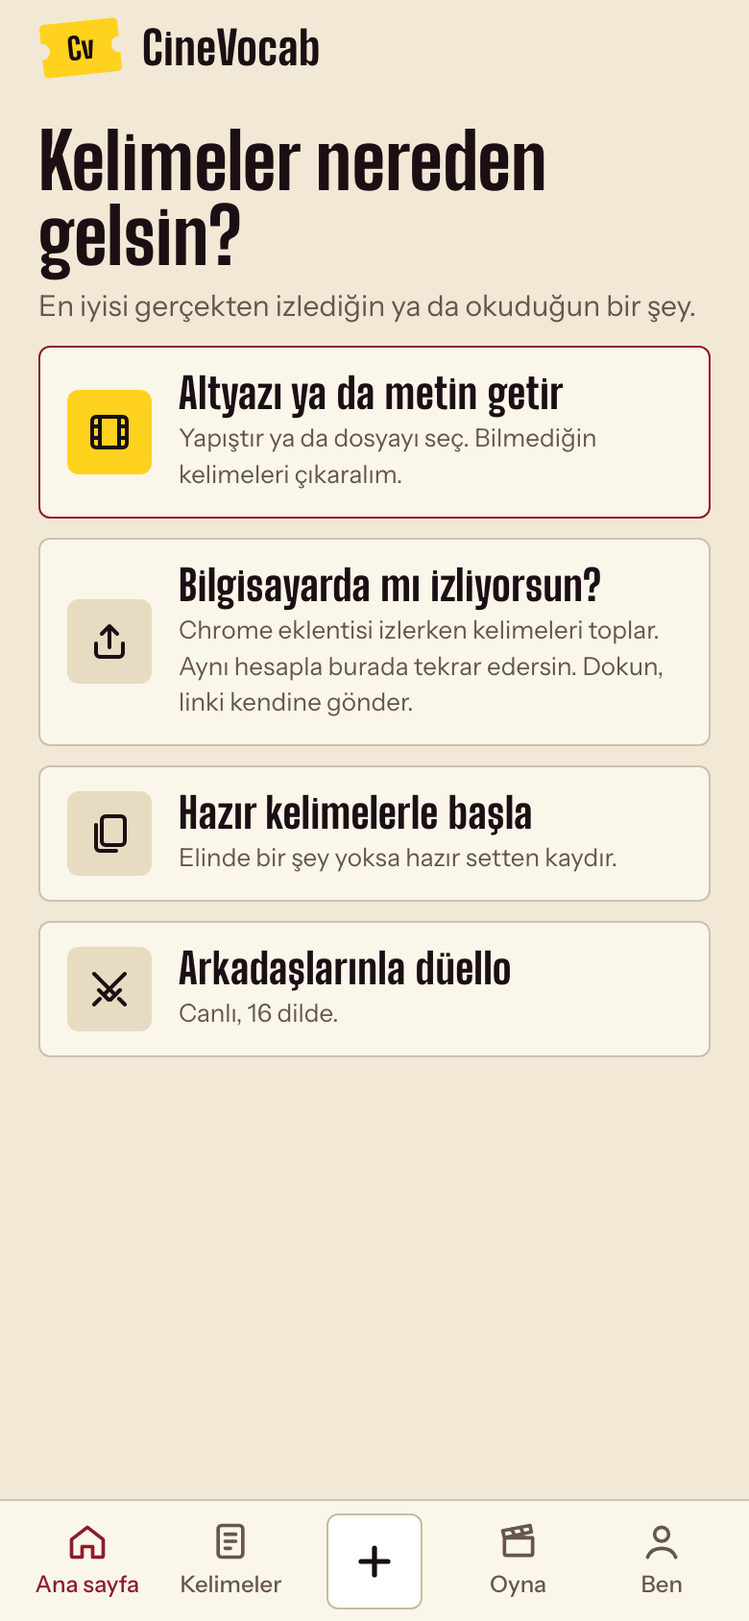
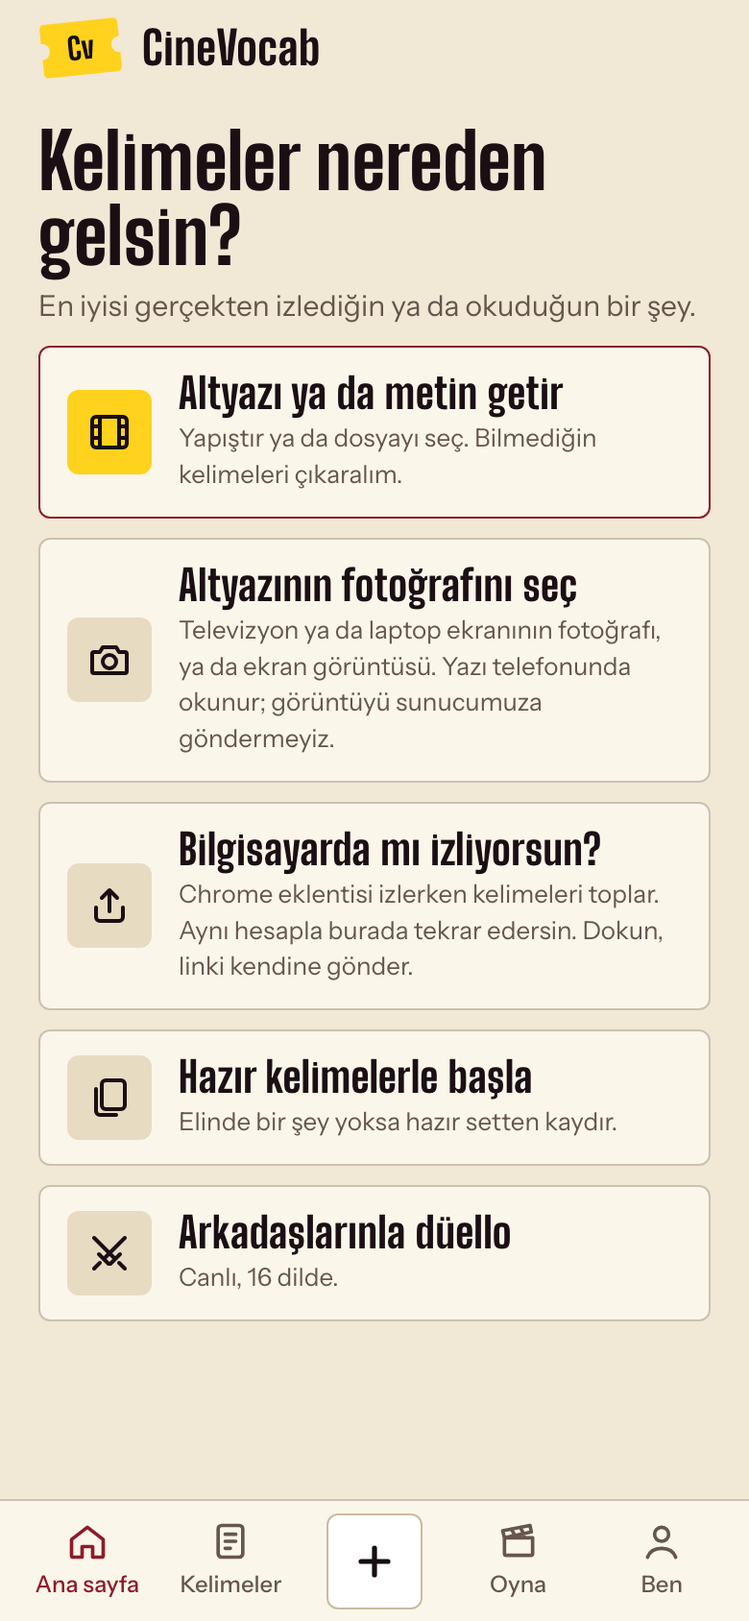
Görselden altyazı: fotoğraf ya da ekran görüntüsündeki yazı telefonda okunur (seç ya da paylaş), veri güvenliği notları

diff --git a/www/app.js b/www/app.js
@@ -51,7 +51,7 @@
       wk0: "One short session fills today's frame.", wkOn: "{0} days in a row. Today's frame is filled.", wkRisk: "{0} days in a row so far. Today's frame is still empty.",
       hFirstS: "Paste a text you want to understand, or pick a starter pack.", hDoneT: "Today's programme is done", hDoneS: "A new puzzle arrives tomorrow. Until then, challenge a friend.",
       flowH: "Word flow", flowS: "Swipe through words. Zero setup.", flowHint: "Swipe up if you knew it, down to see it again.", flowXp: "+{0} XP", flowRun: "{0} in a row", flowEmpty: "Add a few words first, or try the trial pack.", flowBye: "{0} XP earned. Nice flow!", voiceLbl: "Voice", noVoice: "Your phone has no voice for this language.",
-      extH: "Watching on a computer?", extS: "The Chrome extension collects words while you watch. Same account, and you review them here.", extMsg: "CineVocab for Chrome: collect words from subtitles while you watch.", shareReady: "Shared text is in. Tap the button to pull out the words.", shareLink: "That app only shares a link, not the subtitles. Paste the subtitles here or pick the file.", shareNeedAcc: "Your shared text is ready. Create a free account to keep the words.", addH: "Where should your words come from?", addSub: "Best of all: something you are actually watching or reading.",
+      photoH: "Pick a photo of the subtitles", photoS: "A photo of your TV or laptop screen, or a screenshot. The text is read on your phone; we never send the image to our server.", ocrBusy: "Reading the image…", ocrReady: "This is what I could read from the image. Fix anything that came out wrong, then pull out the words.", ocrEmpty: "I could not find readable text in that image. Make sure the subtitles are sharp and large.", ocrLang: "Reading from images works for Latin-script languages for now.", ocrOnly: "This works in the phone app.", extH: "Watching on a computer?", extS: "The Chrome extension collects words while you watch. Same account, and you review them here.", extMsg: "CineVocab for Chrome: collect words from subtitles while you watch.", shareReady: "Shared text is in. Tap the button to pull out the words.", shareLink: "That app only shares a link, not the subtitles. Paste the subtitles here or pick the file.", shareNeedAcc: "Your shared text is ready. Create a free account to keep the words.", addH: "Where should your words come from?", addSub: "Best of all: something you are actually watching or reading.",
       howH: "How do you want to start?", howSub: "Pick one. You can use the others any time.", howQuick: "Start with ready words", howQuickS: "Nothing at hand? Swipe through a starter set.", howSnap: "Snap a subtitle", howSnapS: "Coming soon: point your camera at the TV.", howPaste: "Bring subtitles or a text", howPasteS: "Paste it or pick the file. We pull out the words you do not know.", howDuel: "Duel your friends", howDuelS: "Live, in 16 languages.", howSkip: "Skip",
       cardsH: "Flashcards", cNo: "Show again", cYes: "Knew it", srcOf: "From: {0}", fcTip: "Tap to see the meaning", fcTip2: "Swipe right if you knew it, left if not.", cardsRes: "{0} of {1} known",
       rk0: "Viewer", rk1: "Extra", rk2: "Stunt double", rk3: "Supporting role", rk4: "Lead role", rk5: "Star", rk6: "Director", rk7: "Legend", rankUp: "New role: {0}",
@@ -133,7 +133,7 @@
       wk0: "Kısa bir seans bugünün karesini doldurur.", wkOn: "{0} gün üst üste. Bugünün karesi doldu.", wkRisk: "Şimdiye kadar {0} gün üst üste. Bugünün karesi henüz boş.",
       hFirstS: "Anlamak istediğin bir metni yapıştır ya da hazır bir paket seç.", hDoneT: "Bugünün programı tamam", hDoneS: "Yeni bulmaca yarın geliyor. O zamana kadar bir arkadaşına meydan oku.",
       flowH: "Kelime akışı", flowS: "Kelimeleri kaydır geç. Kurulum yok.", flowHint: "Bildiysen yukarı, tekrar görmek için aşağı kaydır.", flowXp: "+{0} XP", flowRun: "Üst üste {0}", flowEmpty: "Önce birkaç kelime ekle ya da deneme paketini aç.", flowBye: "{0} XP kazandın. Harika akış!", voiceLbl: "Ses", noVoice: "Telefonunda bu dil için ses yok.",
-      extH: "Bilgisayarda mı izliyorsun?", extS: "Chrome eklentisi izlerken kelimeleri toplar. Aynı hesapla burada tekrar edersin. Dokun, linki kendine gönder.", extMsg: "CineVocab Chrome eklentisi: izlerken altyazıdan kelime topla.", shareReady: "Paylaştığın metin geldi. Kelimeleri çıkarmak için düğmeye bas.", shareLink: "Bu uygulama yalnızca link paylaşıyor, altyazıyı değil. Altyazıyı buraya yapıştır ya da dosyasını seç.", shareNeedAcc: "Paylaştığın metin hazır. Kelimeleri saklamak için ücretsiz hesap aç.", addH: "Kelimeler nereden gelsin?", addSub: "En iyisi gerçekten izlediğin ya da okuduğun bir şey.",
+      photoH: "Altyazının fotoğrafını seç", photoS: "Televizyon ya da laptop ekranının fotoğrafı, ya da ekran görüntüsü. Yazı telefonunda okunur; görüntüyü sunucumuza göndermeyiz.", ocrBusy: "Görüntü okunuyor…", ocrReady: "Görüntüden okuyabildiğim bu. Yanlış çıkan yeri düzelt, sonra kelimeleri çıkar.", ocrEmpty: "Bu görüntüde okunabilir yazı bulamadım. Altyazı net ve büyük görünsün.", ocrLang: "Görüntüden okuma şimdilik Latin harfli dillerde çalışıyor.", ocrOnly: "Bu özellik telefon uygulamasında çalışır.", extH: "Bilgisayarda mı izliyorsun?", extS: "Chrome eklentisi izlerken kelimeleri toplar. Aynı hesapla burada tekrar edersin. Dokun, linki kendine gönder.", extMsg: "CineVocab Chrome eklentisi: izlerken altyazıdan kelime topla.", shareReady: "Paylaştığın metin geldi. Kelimeleri çıkarmak için düğmeye bas.", shareLink: "Bu uygulama yalnızca link paylaşıyor, altyazıyı değil. Altyazıyı buraya yapıştır ya da dosyasını seç.", shareNeedAcc: "Paylaştığın metin hazır. Kelimeleri saklamak için ücretsiz hesap aç.", addH: "Kelimeler nereden gelsin?", addSub: "En iyisi gerçekten izlediğin ya da okuduğun bir şey.",
       howH: "Nasıl başlamak istersin?", howSub: "Birini seç. Diğerlerini istediğin zaman kullanırsın.", howQuick: "Hazır kelimelerle başla", howQuickS: "Elinde bir şey yoksa hazır setten kaydır.", howSnap: "Altyazıyı fotoğrafla", howSnapS: "Yakında: kamerayı TV'ye tut.", howPaste: "Altyazı ya da metin getir", howPasteS: "Yapıştır ya da dosyayı seç. Bilmediğin kelimeleri çıkaralım.", howDuel: "Arkadaşlarınla düello", howDuelS: "Canlı, 16 dilde.", howSkip: "Geç",
       cardsH: "Kartlar", cNo: "Tekrar göster", cYes: "Bildim", srcOf: "Kaynak: {0}", fcTip: "Anlamı görmek için dokun", fcTip2: "Bildiysen sağa, bilemediysen sola kaydır.", cardsRes: "{1} kartın {0} tanesini bildin",
       rk0: "Seyirci", rk1: "Figüran", rk2: "Dublör", rk3: "Yardımcı oyuncu", rk4: "Başrol", rk5: "Yıldız", rk6: "Yönetmen", rk7: "Efsane", rankUp: "Yeni rolün: {0}",
@@ -829,13 +829,51 @@
     pendingShare = null;
     go("v-add"); addMode(true);
     $("text").value = sh.text; $("srcTitle").value = sh.title; $("plan").hidden = true;
-    say($("msg"), ""); say($("shareNote"), t(sh.linkOnly ? "shareLink" : "shareReady"), sh.linkOnly ? "" : "ok");      // not formun ustunde: kutunun neden bos ya da dolu oldugu hemen gorunsun
+    say($("msg"), ""); say($("shareNote"), t(sh.linkOnly ? "shareLink" : sh.photo ? "ocrReady" : "shareReady"), sh.linkOnly ? "" : "ok");      // not formun ustunde: kutunun neden bos ya da dolu oldugu hemen gorunsun
     return true;
   }
   function sharePending() { if (pendingShare && S.key) shareOpen(pendingShare); }
   async function shareTake() {
     if (!isNative()) return;
-    try { const d = await native("ShareInbox", "take"); if (d && d.text) shareOpen(shareParse(d.text, d.subject)); } catch (e) {}
+    try {
+      const d = await native("ShareInbox", "take");
+      if (d && d.image) ocrOpen(d.text); else if (d && d.text) shareOpen(shareParse(d.text, d.subject));
+    } catch (e) { if (e && /image|ocr/.test(String(e.message))) toast(t("ocrEmpty")); }
+  }
+  // ---- Gorselden altyazi: fotograf ya da ekran goruntusundeki yazi telefonun icinde okunur (ML Kit, cihaz ici).
+  // Okunan satirlardan altyazi olamayacaklari ayiklar: harfsiz satirlar, saat ve sure (12:34), tek tuk harfler, ust uste ayni satir.
+  const OCR_SCRIPTS = ["en", "tr", "de", "fr", "es", "it", "pt", "ro", "id", "pl", "nl"];      // Latin harfli diller
+  function ocrClean(text) {
+    const out = [];
+    for (let line of String(text || "").split("\n")) {
+      line = line.replace(/\s+/g, " ").trim();
+      const letters = (line.match(/\p{L}/gu) || []).length;
+      if (letters < 3) continue;
+      if (/^[\d:.,\s/-]+$/.test(line)) continue;
+      if (letters < line.replace(/\s/g, "").length * .5) continue;          // cogu rakam ve isaret: sayac, sure, tarih
+      if (out[out.length - 1] === line) continue;
+      out.push(line);
+    }
+    return out.join("\n");
+  }
+  function ocrOpen(raw) {
+    const text = ocrClean(raw);
+    if (!text) { toast(t("ocrEmpty")); return false; }
+    if (!OCR_SCRIPTS.includes(S.src)) toast(t("ocrLang"));
+    return shareOpen({ text: text.slice(0, CVTEXT.MAX_CHARS), title: "", linkOnly: false, empty: false, photo: true });
+  }
+  // Secilen gorseli kucultup (uzun kenar en cok 1600 px) yerel okuyucuya verir.
+  async function ocrFile(file) {
+    if (!file) return;
+    if (!isNative()) return toast(t("ocrOnly"));
+    toast(t("ocrBusy"));
+    try {
+      const bmp = await createImageBitmap(file), k = Math.min(1, 1600 / Math.max(bmp.width, bmp.height));
+      const cv = document.createElement("canvas"); cv.width = Math.round(bmp.width * k); cv.height = Math.round(bmp.height * k);
+      cv.getContext("2d").drawImage(bmp, 0, 0, cv.width, cv.height);
+      const d = await native("ShareInbox", "ocr", { data: cv.toDataURL("image/jpeg", .9).split(",")[1] });
+      ocrOpen(d && d.text);
+    } catch (e) { toast(t("ocrEmpty")); }
   }
   let plan = null;     // { title, thumb, words: [secilen kelimeler], lines: [metnin satirlari] }
   $("go").addEventListener("click", async function () {
@@ -1719,6 +1757,8 @@
   });
   // Eklenti koprusu: bilgisayarda izleyen icin. Linki paylasim penceresiyle kendine gonderir (telefonda magaza acmak ise yaramaz).
   for (const id of ["aExt", "hExt"]) $(id).addEventListener("click", () => share(t("extMsg"), CFG.extension || shareUrl()));
+  $("aPhoto").addEventListener("click", () => $("photo").click());
+  $("photo").addEventListener("change", function () { const f = $("photo").files && $("photo").files[0]; $("photo").value = ""; ocrFile(f); });
   $("aQuick").addEventListener("click", startFlow);
   $("aPaste").addEventListener("click", () => addMode(true));
   $("aDuel").addEventListener("click", () => go("v-duel"));

diff --git a/dev/tests/hesap.test.js b/dev/tests/hesap.test.js
@@ -462,11 +462,34 @@ test("paylasim: misafirde metin bellekte bekler, kayit istenir; giristen sonra f
 test("paylasim: Android tarafi yalnizca duz metin kabul eder, yeni izin yok", () => {
   const fs = require("node:fs"), path = require("node:path"), kok = path.join(__dirname, "..", "..", "android", "app", "src", "main");
   const m = fs.readFileSync(path.join(kok, "AndroidManifest.xml"), "utf8");
-  assert.equal((m.match(/android\.intent\.action\.SEND/g) || []).length, 1); assert.match(m, /mimeType="text\/plain"/); assert.doesNotMatch(m, /SEND_MULTIPLE|image\/|\*\/\*/);
+  assert.equal((m.match(/android\.intent\.action\.SEND/g) || []).length, 2); assert.match(m, /mimeType="text\/plain"/); assert.doesNotMatch(m, /SEND_MULTIPLE|\*\/\*/);
   assert.deepEqual((m.match(/uses-permission android:name="([^"]+)"/g) || []).map((x) => x.split(".").pop().replace('"', "")).sort(), ["INTERNET", "VIBRATE"]);
 });
 test("paylasim: misafirde yalnizca link gelirse kayit istenmez, neden bos oldugu soylenir", () => {
   const { c, olay } = yonlendir({ key: "", guest: true });
   assert.equal(c.shareOpen(c.shareParse("https://youtu.be/abc", "Video")), false);
   assert.deepEqual(olay, ["uyari:shareLink"]); assert.equal(c.pendingShare, null);
+});
+
+// Gorselden altyazi: okunan ham satirlarin ayiklanmasi ve yonlendirme.
+test("gorselden okuma: saat, sayac ve harfsiz satirlar atilir, altyazi kalir", () => {
+  const c = yukle(["ocrClean"]);
+  const ham = ["12:34 / 1:02:11", "1,2 Mn goruntuleme", "He was reluctant to leave.", "He was reluctant to leave.", "HD", ">> ||", "", "  She gave him   a fierce look. ", "2026-11-24"].join("\n");
+  assert.equal(c.ocrClean(ham), "1,2 Mn goruntuleme\nHe was reluctant to leave.\nShe gave him a fierce look.");
+  assert.equal(c.ocrClean("12:34\n...\n42"), ""); assert.equal(c.ocrClean(null), "");
+});
+test("gorselden okuma: bos sonucta uyarir, form acmaz; dolu sonucta formu 'gorselden okundu' notuyla acar", () => {
+  const olay = [];
+  const c = yukle(["OCR_SCRIPTS", "ocrClean", "ocrOpen"], { S: { src: "en" }, CVTEXT: { MAX_CHARS: 400000 }, t: (k) => k, toast: (m) => olay.push("uyari:" + m), shareOpen: (sh) => { olay.push(sh); return true; } });
+  assert.equal(c.ocrOpen("12:34\n..."), false); assert.deepEqual(olay, ["uyari:ocrEmpty"]);
+  assert.equal(c.ocrOpen("He was reluctant to leave."), true);
+  assert.equal(olay[1].text, "He was reluctant to leave."); assert.equal(olay[1].photo, true); assert.equal(olay[1].linkOnly, false);
+  c.S.src = "ja"; c.ocrOpen("He was reluctant to leave."); assert.equal(olay[2], "uyari:ocrLang", "Latin disi dilde acikca soyler");
+});
+test("gorselden okuma: Android yalnizca metin ve gorsel alir, kamera izni yok, okuma cihaz ici", () => {
+  const fs = require("node:fs"), path = require("node:path"), kok = path.join(__dirname, "..", "..", "android", "app");
+  const m = fs.readFileSync(path.join(kok, "src", "main", "AndroidManifest.xml"), "utf8"), g = fs.readFileSync(path.join(kok, "build.gradle"), "utf8");
+  assert.deepEqual((m.match(/mimeType="([^"]+)"/g) || []).sort(), ['mimeType="image/*"', 'mimeType="text/plain"']);
+  assert.doesNotMatch(m, /CAMERA|READ_EXTERNAL|READ_MEDIA/);
+  assert.match(g, /com\.google\.mlkit:text-recognition:/, "model uygulamayla gelir"); assert.doesNotMatch(g, /play-services-mlkit/, "indirmeli surum degil");
 });

diff --git a/www/index.html b/www/index.html
@@ -161,6 +161,8 @@
         <h1 data-i="addH"></h1>
         <p class="sub" data-i="addSub"></p>
         <button class="tile hot" id="aPaste" type="button"><i><svg class="ic"><use href="#i-film"/></svg></i><span><b data-i="howPaste"></b><em data-i="howPasteS"></em></span></button>
+        <button class="tile" id="aPhoto" type="button"><i><svg class="ic"><use href="#i-camera"/></svg></i><span><b data-i="photoH"></b><em data-i="photoS"></em></span></button>
+        <input id="photo" type="file" accept="image/*" hidden>
         <button class="tile" id="aExt" type="button"><i><svg class="ic"><use href="#i-share"/></svg></i><span><b data-i="extH"></b><em data-i="extS"></em></span></button>
         <button class="tile" id="aQuick" type="button"><i><svg class="ic"><use href="#i-cards"/></svg></i><span><b data-i="howQuick"></b><em data-i="howQuickS"></em></span></button>
         <button class="tile" id="aDuel" type="button"><i><svg class="ic"><use href="#i-swords"/></svg></i><span><b data-i="howDuel"></b><em data-i="howDuelS"></em></span></button>

diff --git a/android/app/src/main/java/com/cinevocab/app/ShareInboxPlugin.java b/android/app/src/main/java/com/cinevocab/app/ShareInboxPlugin.java
@@ -1,6 +1,15 @@
 package com.cinevocab.app;
 
 import android.content.Intent;
+import android.graphics.Bitmap;
+import android.graphics.BitmapFactory;
+import android.net.Uri;
+import android.util.Base64;
+import com.google.mlkit.vision.common.InputImage;
+import com.google.mlkit.vision.text.Text;
+import com.google.mlkit.vision.text.TextRecognition;
+import com.google.mlkit.vision.text.latin.TextRecognizerOptions;
+import java.io.InputStream;
 import com.getcapacitor.JSObject;
 import com.getcapacitor.Plugin;
 import com.getcapacitor.PluginCall;
@@ -9,22 +18,32 @@ import com.getcapacitor.annotation.CapacitorPlugin;
 
 // Baska bir uygulamadan "Paylas -> CineVocab" ile gelen duz metni tutar ve web tarafina verir.
 // Metin yalnizca bellekte durur (diske yazilmaz, sunucuya gonderilmez); web tarafi take() ile bir kez alir.
-// Yalnizca ACTION_SEND + text/* kabul edilir; dosya ve gorsel alinmaz.
+// Gorsel (ekran goruntusu, altyazi fotografi) gelirse yazi telefonun icinde okunur (ML Kit, cihaz ici);
+// gorsel diske kopyalanmaz, sunucuya gonderilmez. Yalnizca ACTION_SEND + text/* ve image/* kabul edilir.
 @CapacitorPlugin(name = "ShareInbox")
 public class ShareInboxPlugin extends Plugin {
     static final int MAX_TEXT = 400000;     // www/text.js icindeki MAX_CHARS ile ayni
     static final int MAX_SUBJECT = 120;
     private static String text = null;
     private static String subject = null;
+    private static Uri image = null;
+    static final int MAX_SIDE = 2000;       // buyuk fotograflar okumadan once kucultulur
 
     // Niyet paylasim ise metni saklar ve true doner. Uygulama acilirken ve aciksa yeni niyet geldiginde cagrilir.
     static boolean accept(Intent intent) {
         if (intent == null || !Intent.ACTION_SEND.equals(intent.getAction())) return false;
         String type = intent.getType();
+        if (type != null && type.startsWith("image/")) {
+            Uri uri = intent.getParcelableExtra(Intent.EXTRA_STREAM);
+            if (uri == null) return false;
+            image = uri; text = null; subject = "";
+            return true;
+        }
         if (type == null || !type.startsWith("text/")) return false;
         CharSequence body = intent.getCharSequenceExtra(Intent.EXTRA_TEXT);
         if (body == null || body.toString().trim().isEmpty()) return false;
         String s = body.toString();
+        image = null;
         text = s.length() > MAX_TEXT ? s.substring(0, MAX_TEXT) : s;
         String sub = intent.getStringExtra(Intent.EXTRA_SUBJECT);
         subject = sub == null ? "" : (sub.length() > MAX_SUBJECT ? sub.substring(0, MAX_SUBJECT) : sub);
@@ -34,12 +53,59 @@ public class ShareInboxPlugin extends Plugin {
     // Web tarafi: bekleyen paylasimi alir. Bir kez verilir, sonra silinir.
     @PluginMethod
     public void take(PluginCall call) {
+        if (image != null) {                 // paylasilan gorsel: yaziyi oku, sonucu metin olarak ver
+            Uri uri = image;
+            image = null;
+            try (InputStream in = getContext().getContentResolver().openInputStream(uri)) {
+                read(call, shrink(BitmapFactory.decodeStream(in)));
+            } catch (Exception e) {
+                call.reject("image");
+            }
+            return;
+        }
         JSObject out = new JSObject();
         out.put("text", text == null ? "" : text);
         out.put("subject", subject == null ? "" : subject);
         text = null;
         subject = null;
         call.resolve(out);
+    }
+
+    // Web tarafi: uygulamanin icinden secilen ya da cekilen gorseldeki yaziyi okur. data: base64 (jpeg/png).
+    @PluginMethod
+    public void ocr(PluginCall call) {
+        try {
+            byte[] raw = Base64.decode(call.getString("data", ""), Base64.DEFAULT);
+            read(call, shrink(BitmapFactory.decodeByteArray(raw, 0, raw.length)));
+        } catch (Exception e) {
+            call.reject("image");
+        }
+    }
+
+    private static Bitmap shrink(Bitmap b) {
+        if (b == null) return null;
+        int side = Math.max(b.getWidth(), b.getHeight());
+        if (side <= MAX_SIDE) return b;
+        float k = (float) MAX_SIDE / side;
+        return Bitmap.createScaledBitmap(b, Math.round(b.getWidth() * k), Math.round(b.getHeight() * k), true);
+    }
+
+    // Cihaz ici yazi tanima (Latin harfleri). Satirlar yukaridan asagiya, oldugu gibi doner; ayiklama web tarafinda.
+    private void read(PluginCall call, Bitmap bmp) {
+        if (bmp == null) { call.reject("image"); return; }
+        TextRecognition.getClient(TextRecognizerOptions.DEFAULT_OPTIONS).process(InputImage.fromBitmap(bmp, 0))
+            .addOnSuccessListener(result -> {
+                StringBuilder sb = new StringBuilder();
+                for (Text.TextBlock block : result.getTextBlocks()) {
+                    for (Text.Line line : block.getLines()) sb.append(line.getText()).append('\n');
+                }
+                JSObject out = new JSObject();
+                out.put("text", sb.length() > MAX_TEXT ? sb.substring(0, MAX_TEXT) : sb.toString());
+                out.put("subject", "");
+                out.put("image", true);
+                call.resolve(out);
+            })
+            .addOnFailureListener(e -> call.reject("ocr"));
     }
 
     // Uygulama acikken yeni paylasim geldi: web tarafina haber ver (metni olayla gondermez, web take() ile alir).

diff --git a/store/PLAY-STORE.md b/store/PLAY-STORE.md
@@ -105,6 +105,22 @@ Veri toplanıyor mu: **Evet**. Aktarım sırasında şifreleniyor mu: **Evet** (
 | Konum, rehber, fotoğraf, ses, mali bilgi, sağlık | Hayır | | |
 | Reklam kimliği, analitik | Hayır | | |
 
+**Görselden altyazı okuma (24 Kasım 2026'da eklendi) formu değiştirir.** Uygulama artık Google ML Kit yazı tanıma kütüphanesini içeriyor (`com.google.mlkit:text-recognition`, model uygulamayla birlikte gelir). Bizim kodumuz görseli ve okunan metni hiçbir yere göndermez. Ama ML Kit kendi başına Google'a tanılama verisi yollar; Google'ın sayfasına göre (https://developers.google.com/ml-kit/android-data-disclosure, 14 Mayıs 2025 sürümü okundu) toplananlar: cihaz bilgisi (üretici, model, işletim sistemi), uygulama bilgisi (paket adı, sürüm), kurulum başına kimlik ("kullanıcıyı ya da cihazı tekil tanımlamak için değil"), performans ölçümleri, API ayarları (görsel biçimi ve çözünürlüğü), girdi ve çıktı boyutu, özellik sürümü, olay türü, hata kodları. Amaç: "tanılama ve kullanım analitiği". HTTPS ile şifreli, üçüncü tarafa aktarılmıyor. Sayfa, görselin ya da okunan metnin gönderilip gönderilmediğini açıkça yazmıyor; formu nasıl dolduracağını da sana bırakıyor.
+
+Buna göre yukarıdaki tabloda "Reklam kimliği, analitik: Hayır" satırı artık eksik kalır. Eklenmesi gerekenler (kendi yorumum, formu doldururken Google'ın sayfasıyla karşılaştır):
+
+| Veri türü | Toplanıyor | Amaç | Zorunlu mu |
+|---|---|---|---|
+| Cihaz ya da diğer kimlikler (kurulum kimliği, ML Kit) | Evet | Analiz (tanılama) | Zorunlu (kütüphane kendisi yollar) |
+| Uygulama bilgisi ve performansı: tanılama (ML Kit) | Evet | Analiz (tanılama) | Zorunlu |
+| Fotoğraflar | Hayır (görsel telefonda işlenir, sunucumuza gitmez; kalıcı saklanmaz) | | |
+
+Gizlilik politikası metnine de bir cümle gerekir (sunucu reposunda): "Görselden altyazı okuma telefonun içinde yapılır; bunun için kullanılan Google ML Kit kütüphanesi Google'a tanılama ve kullanım ölçümleri gönderir."
+
+Bu beyanı istemiyorsan özellik kaldırılabilir ya da modeli Google Play hizmetlerinden indiren sürüme geçilebilir (uygulama küçülür, beyan aynı kalır).
+
+**Paylaş → CineVocab** yeni izin istemez; manifest'e iki giriş eklendi (düz metin ve görsel paylaşımı alma). Kamera, depolama ve fotoğraf izni yok: görsel sistemin fotoğraf seçicisinden ya da paylaşımdan gelir.
+
 Formu doldurmadan önce sunucu tarafını bir kez daha gözden geçir: sunucuda toplanan başka bir şey varsa (örneğin IP kaydı) onu da yaz.
 
 ## Yayın sırası

diff --git a/dev/SUNUCU-ISTEKLERI.md b/dev/SUNUCU-ISTEKLERI.md
@@ -10,3 +10,5 @@ Gelene kadar uygulama bu satırları göstermez, uydurmaz.
 | 3 | `POST /api/srs/report` (ve `/api/daily/answer`) | Her kelime için yeni tekrar kutusu ve sonraki tekrar günü: `items: [{w, box, next_days}]` | Cevaptan sonra "3. kutuya çıktı, bir hafta sonra tekrar soracağım" satırı; kelime kartında kutu göstergesi |
 | 4 | `POST /api/srs/report` | Bu gönderimle kalıcı olan kelimelerin adları: `mastered_now: ["shallow", ...]` | Sonuç jeneriği: şimdi yalnızca sayı ("2 kelime") yazılıyor, sayı ana özetin önceki ve sonraki `mastered` farkından hesaplanıyor |
 | 5 | `GET /api/vocab` | Hazır paket ve eski içe aktarma kelimeleri için `sentence` (şu an çoğunda boş) | Ana ekran karesi, kart ve soru altyazısı. Kendi metninden eklenen kelimelerin cümlesi artık telefonda saklanıyor (sunucuya gitmiyor); telefon değişince ya da çıkış yapınca kaybolur |
+| 6 | Gizlilik metni (`accounts.py`) | Görselden altyazı okuma ve Google ML Kit tanılama verisi için bir cümle (taslağı `store/PLAY-STORE.md` içinde) | Play veri güvenliği formuyla tutarlılık |
+| 7 | Eklenti (`extension/`) | Popup'a "Telefonda tekrar et" bağlantısı (Play mağaza adresi çıkınca); Firefox Android sürümü değerlendirmesi | Bilgisayarda topla, telefonda tekrar et döngüsü |

diff --git a/.claude/THIRD_PARTY.md b/.claude/THIRD_PARTY.md
@@ -31,5 +31,11 @@ Daha yeni bir commit alınacaksa önce içine bakılır (hook, betik, MCP kurulu
 - `ionic-*`, `capacitor-angular/react/vue`: uygulama düz JS.
 - Eklenti geliştirme ve iOS SPM skill'leri: kapsam dışı.
 
+## Uygulamaya giren kütüphaneler
+| Kütüphane | Ne işe yarar | Kaynak | Lisans / koşul |
+|---|---|---|---|
+| `com.google.mlkit:text-recognition:16.0.1` | Fotoğraf ve ekran görüntüsündeki altyazıyı telefonda okur (Latin harfleri) | Google Maven, `android/app/build.gradle` | Açık kaynak değil; Google ML Kit kullanım koşulları. Google'a tanılama verisi yollar: `store/PLAY-STORE.md` veri güvenliği bölümüne bak. Cihaz başına yaklaşık 10 MB ekler |
+| Big Shoulders Display, Instrument Sans | Yazı tipleri | Google Fonts, `www/fonts/` | SIL OFL 1.1 |
+
 ## Bu projeye ait olanlar
 `agents/`, `commands/`, `ofis/` bu proje için yazıldı (cinevocab-app'teki sürümlerden uyarlandı). `ofis/hook.py` yalnızca standart kütüphane kullanır, `ofis/durum.json` dosyasına yazar, ağa çıkmaz.
